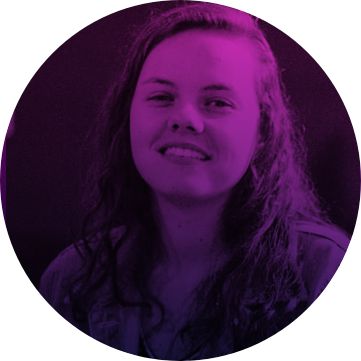
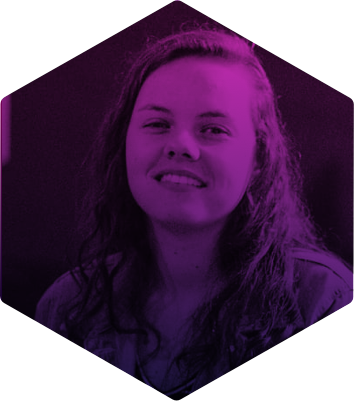
Changing img to a hexagon format

diff --git a/index.html b/index.html
@@ -36,7 +36,7 @@
           </ul>
         </nav>
         <header class="hero-header">
-          <div><img class="hexagon" src="imgs/img.png" title="Pamela" /></div>
+          <div><img src="imgs/img.png" title="Pamela" /></div>
           <div>
             <h1 class="hero-title">Olá!</h1>
             <p class="hero-text">
